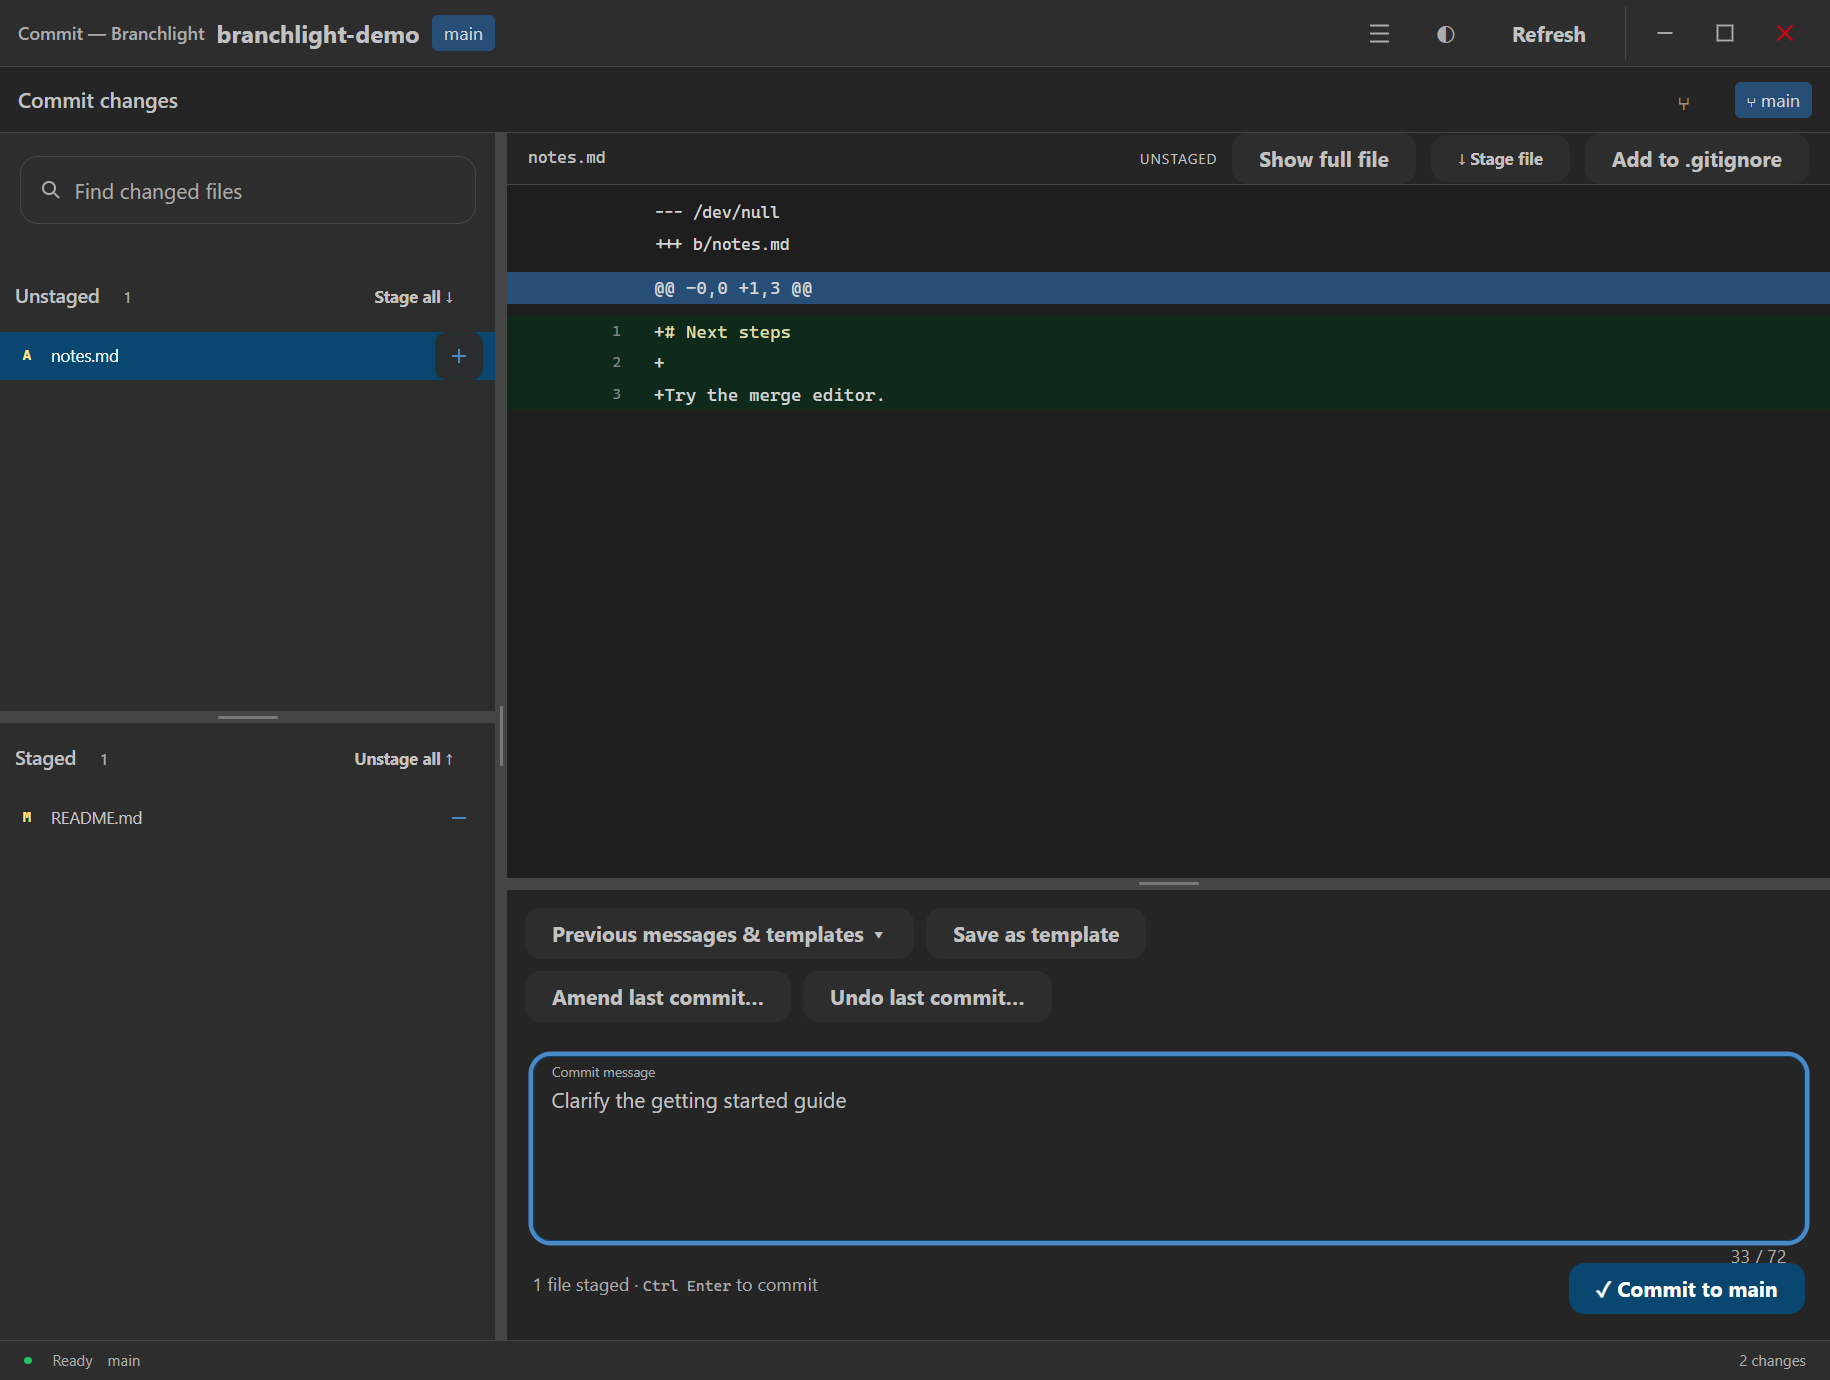
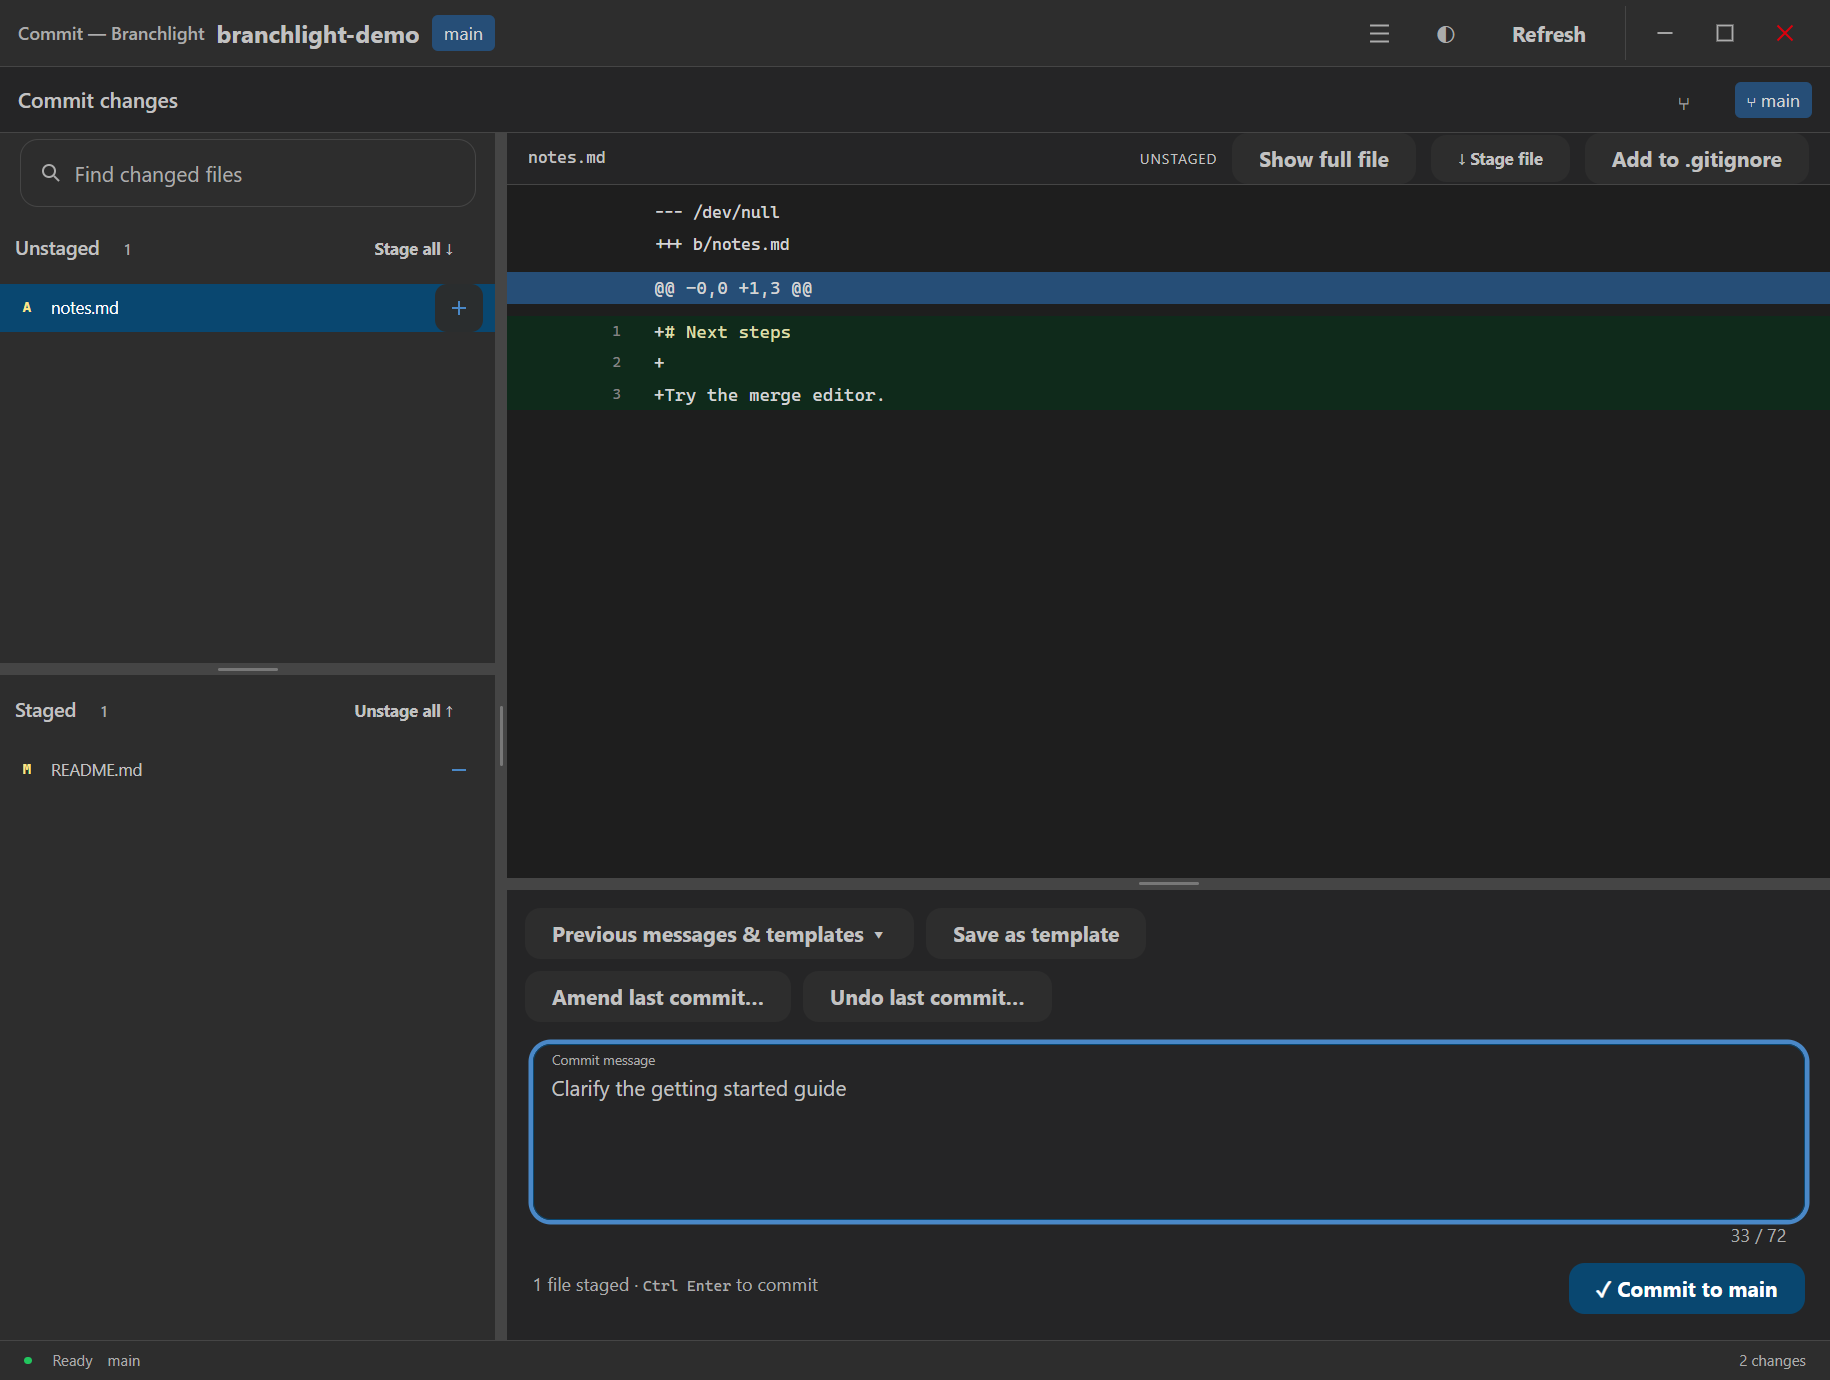
Remove stacked form spacing and stretch the commit editor

diff --git a/app/src/views/commit/commit.html b/app/src/views/commit/commit.html
@@ -19,7 +19,7 @@
 </div>
 <div class="commit-workspace flex min-h-0 flex-1 bg-card">
   <aside ref="stagingPane" class="staging-sidebar flex w-[330px] min-h-0 shrink-0 flex-col bg-card-muted">
-    <ui-form ref="fileSearchForm" class="block shrink-0 px-2">
+    <ui-form ref="fileSearchForm" class="search-form block shrink-0 px-2">
       <ui-input class="col-span-12" label="Find changed files" value.bind="fileQuery">
         <svg au-slot="leading" width="16" height="16" viewBox="0 0 24 24" fill="none" stroke="currentColor" stroke-width="2" aria-hidden="true">
           <circle cx="10" cy="10" r="6"></circle>
@@ -80,12 +80,12 @@
     <ui-splitter show.bind="!replaying" direction="vertical" target="next" size.bind="messageHeight" min.bind="180" max.bind="messageMax" storage-key="commit-message" aria-label="Resize diff and commit message"></ui-splitter>
     <section show.bind="!replaying" class="message-composer flex min-h-0 shrink-0 flex-col overflow-auto bg-card p-3">
       <message-picker class="shrink-0" message.bind="message" message-chosen.trigger="message = $event.detail"></message-picker>
-      <div class="mb-2 flex shrink-0 flex-wrap items-center gap-2">
+      <div class="flex shrink-0 flex-wrap items-center gap-2">
         <button ui-button click.trigger="toggleAmend()" disabled.bind="workspace.busy || !workspace.snapshot.head || !!workspace.snapshot.operation">${amendHead ? 'Cancel amend' : 'Amend last commit…'}</button>
         <button ui-button click.trigger="undoCommit()" disabled.bind="workspace.busy || !workspace.snapshot.head || !!workspace.snapshot.operation || !!amendHead">Undo last commit…</button>
       </div>
-      <ui-form class="block min-h-0 flex-1 [&>form]:h-full [&>form]:grid-rows-[1fr_auto]" submit.trigger:prevent="commit()">
-        <ui-input class="col-span-12 min-h-24" textarea id="commit-message" value.bind="message & validate" label="Commit message" rows="5" placeholder="Summary of changes" disabled.bind="workspace.busy">
+      <ui-form class="block min-h-0 flex-1 [&>form]:h-full [&>form]:pt-2 [&>form]:grid-rows-[minmax(0,1fr)_auto]" submit.trigger:prevent="commit()">
+        <ui-input class="col-span-12 min-h-24 self-stretch" textarea id="commit-message" value.bind="message & validate" label="Commit message" rows="5" placeholder="Summary of changes" disabled.bind="workspace.busy">
           <span au-slot="helper" class="flex flex-wrap justify-between gap-2">
             <span if.bind="amendHead">Amending ${amendHead.slice(0, 8)}. Staged changes will be included.</span>
             <span class="ml-auto ${summaryLength > 72 ? 'text-warning-text' : ''}" aria-label="Summary length">${summaryLength} / 72</span>

diff --git a/app/src/views/history/commit-files/commit-files.html b/app/src/views/history/commit-files/commit-files.html
@@ -2,7 +2,7 @@
   <import from="../../../attributes/code-selection"></import>
   <div class="w-[280px] min-w-0 shrink-0 overflow-auto">
     <div class="px-3 py-2 text-xs text-ink-500">Files at this commit · ${fileCount}</div>
-    <ui-form class="block min-w-0 px-2">
+    <ui-form class="search-form block min-w-0 px-2">
       <ui-input class="col-span-12 min-w-0" label="Find a file" value.bind="fileQuery">
         <svg au-slot="leading" width="16" height="16" viewBox="0 0 24 24" fill="none" stroke="currentColor" stroke-width="2" aria-hidden="true">
           <circle cx="10" cy="10" r="6"></circle>
@@ -23,13 +23,13 @@
   <ui-splitter direction="horizontal" size="280" min.bind="150" max.bind="650" storage-key="commit-files" aria-label="Resize commit file tree"></ui-splitter>
   <section class="flex min-h-0 min-w-0 flex-1 flex-col bg-canvas">
     <div class="min-h-8 shrink-0 truncate border-b border-card-border px-3 py-1 text-sm" title.bind="selectedPath">${selectedPath || 'File contents'}</div>
-    <ui-form if.bind="lines.length" class="block w-80 max-w-full shrink-0 px-3" submit.trigger:prevent="findInFile()">
+    <ui-form if.bind="lines.length" class="search-form block w-80 max-w-full shrink-0 px-3" submit.trigger:prevent="findInFile()">
       <ui-input class="col-span-10 min-w-0" label="Find in file" value.bind="contentQuery">
         <svg au-slot="leading" width="16" height="16" viewBox="0 0 24 24" fill="none" stroke="currentColor" stroke-width="2" aria-hidden="true">
           <circle cx="10" cy="10" r="6"></circle>
           <path d="m 15 15 5 5"></path>
         </svg>
-        <span au-slot="helper" if.bind="contentQuery">${contentMatches.length} matching lines</span>
+        <span au-slot="trailing" class="whitespace-nowrap text-xs" role="status" if.bind="contentQuery">${contentMatches.length} matches</span>
       </ui-input>
       <button ui-icon-button class="col-span-2" type="submit" title="Next matching line" aria-label="Next matching line" disabled.bind="!contentMatches.length">↓</button>
     </ui-form>

diff --git a/app/src/views/history/history.html b/app/src/views/history/history.html
@@ -33,13 +33,13 @@
           <span class="muted text-ink-500">/ All branches</span>
         </h2>
         <div class="spacer flex-1"></div>
-        <ui-form class="history-search block w-[330px] text-ink-500" submit.trigger:prevent="findNext()">
+        <ui-form class="history-search search-form block w-[330px] text-ink-500" submit.trigger:prevent="findNext()">
           <ui-input value.bind="query" placeholder="Find a commit, author or hash…" label="Search commits" class="search-field col-span-10">
             <svg au-slot="leading" width="16" height="16" viewBox="0 0 24 24" fill="none" stroke="currentColor" stroke-width="2" aria-hidden="true">
               <circle cx="10" cy="10" r="6"></circle>
               <path d="m 15 15 5 5"></path>
             </svg>
-            <span au-slot="helper" if.bind="query">${matchCount} matches</span>
+            <span au-slot="trailing" class="whitespace-nowrap text-xs" role="status" if.bind="query">${matchCount} matches</span>
           </ui-input>
           <button ui-icon-button class="col-span-2" type="submit" title="Next match">↵</button>
         </ui-form>

diff --git a/app/src/views/welcome/repository-dialog/repository-dialog.html b/app/src/views/welcome/repository-dialog/repository-dialog.html
@@ -1,5 +1,5 @@
 <template class="w-[560px] max-w-[90vw] max-h-[90vh] overflow-auto p-6">
-  <h2 class="mb-4 text-xl!">${mode === 'clone' ? 'Clone repository' : 'Create repository'}</h2>
+  <h2 class="text-xl!">${mode === 'clone' ? 'Clone repository' : 'Create repository'}</h2>
   <ui-form class="block" submit.trigger:prevent="create()">
     <ui-input class="col-span-12" if.bind="mode === 'clone'" label="Repository URL or local path" value.bind="url & validate" disabled.bind="working" required><span au-slot="helper">Authentication uses your configured Git credential helper or SSH agent.</span></ui-input>
     <ui-input class="col-span-9 min-w-0" label="Destination folder" value.bind="directory & validate" disabled.bind="working" required>

diff --git a/app/src/views/history/publish-dialog/publish-dialog.html b/app/src/views/history/publish-dialog/publish-dialog.html
@@ -1,6 +1,6 @@
 <template class="w-[480px] max-w-[90vw] p-6">
   <h2 class="mb-4 text-xl!">Publish branch</h2>
-  <p class="mb-4 text-sm text-ink-500">Push ${source} and configure its upstream for future pulls and pushes.</p>
+  <p class="text-sm text-ink-500">Push ${source} and configure its upstream for future pulls and pushes.</p>
   <ui-form class="block" submit.trigger:prevent="publish()">
     <ui-select class="col-span-12" label="Remote" items.bind="remotes" value.bind="remote & validate" value-field="name" label-field="name" disabled.bind="workspace.busy">
       <ui-list><ui-list-item repeat.for="remote of $host.items" value.bind="remote">${remote.name}</ui-list-item></ui-list>

diff --git a/app/src/elements/repository-sidebar/repository-sidebar.html b/app/src/elements/repository-sidebar/repository-sidebar.html
@@ -11,7 +11,7 @@
     Working directory
     <span class="count inline-block min-w-5 rounded bg-card-muted px-1.5 text-center text-[10px] leading-[18px] text-ink-500">${workspace.snapshot.files.length}</span>
   </button>
-  <ui-form class="branch-search block shrink-0">
+  <ui-form class="branch-search search-form block shrink-0">
     <ui-input value.bind="branchSearch" placeholder="Find a branch…" label="Find a branch" class="search-field col-span-12">
       <svg au-slot="leading" width="16" height="16" viewBox="0 0 24 24" fill="none" stroke="currentColor" stroke-width="2" aria-hidden="true">
         <circle cx="10" cy="10" r="6"></circle>

diff --git a/app/src/views/history/reflog-dialog/reflog-dialog.html b/app/src/views/history/reflog-dialog/reflog-dialog.html
@@ -1,7 +1,7 @@
 <template class="repository-tool-dialog flex w-[850px] max-w-[90vw] max-h-[90vh] min-w-0 flex-col gap-3 overflow-hidden p-5">
   <h2 class="text-xl!">Reflog recovery</h2>
   <p class="text-sm text-ink-500">Recent local reference movements, including commits removed by resets and rebases. Recover a commit onto a new branch. Expired reflog entries are unavailable.</p>
-  <ui-form class="block shrink-0">
+  <ui-form class="search-form block shrink-0">
     <ui-input class="col-span-12" label="Search reflog" value.bind="query"><span au-slot="leading">⌕</span></ui-input>
   </ui-form>
   <div class="min-h-0 flex-1 overflow-auto">

diff --git a/app/src/views/history/remote-dialog/remote-dialog.html b/app/src/views/history/remote-dialog/remote-dialog.html
@@ -1,5 +1,5 @@
 <template class="w-[600px] max-w-[90vw] max-h-[90vh] overflow-auto p-6">
-  <h2 class="mb-5 text-xl!">${editing ? 'Edit remote ' + name : 'Add remote'}</h2>
+  <h2 class="text-xl!">${editing ? 'Edit remote ' + name : 'Add remote'}</h2>
   <ui-form class="block" submit.trigger:prevent="save()">
     <ui-input class="col-span-12" label="Remote name" value.bind="name & validate" readonly.bind="editing" disabled.bind="workspace.busy" required></ui-input>
     <ui-input class="col-span-12" label="Remote URL" value.bind="url & validate" disabled.bind="workspace.busy" required></ui-input>

diff --git a/app/src/views/history/new-worktree-dialog/new-worktree-dialog.html b/app/src/views/history/new-worktree-dialog/new-worktree-dialog.html
@@ -1,5 +1,5 @@
 <template class="w-[540px] max-w-[90vw] max-h-[85vh] overflow-auto p-6">
-  <h2 class="mb-4 text-xl!">Create worktree</h2>
+  <h2 class="text-xl!">Create worktree</h2>
   <ui-form class="block" submit.trigger:prevent="create()">
     <ui-input class="col-span-12" label="New branch" value.bind="name & validate" required></ui-input>
     <ui-input class="col-span-12" label="Worktree folder" value.bind="directory & validate" required><span au-slot="helper">Use an absolute path for the new worktree.</span></ui-input>

diff --git a/app/src/views/history/new-branch-dialog/new-branch-dialog.html b/app/src/views/history/new-branch-dialog/new-branch-dialog.html
@@ -1,5 +1,5 @@
 <template class="branch-dialog w-[430px] max-w-[90vw] p-6">
-  <h2>Create branch</h2>
+  <h2 class="text-xl!">Create branch</h2>
   <ui-form class="block" submit.trigger:prevent="save()">
     <ui-input class="col-span-12" label="Branch name" value.bind="name & validate" placeholder="feature/my-change" required autofocus>
       <span au-slot="helper">Create and check out a branch from ${reference || 'the current commit'}.</span>

diff --git a/app/src/views/history/tags-dialog/tags-dialog.html b/app/src/views/history/tags-dialog/tags-dialog.html
@@ -1,6 +1,6 @@
 <template class="repository-tool-dialog flex w-[780px] max-w-[90vw] max-h-[90vh] min-w-0 flex-col gap-3 overflow-hidden p-5">
   <h2 class="text-xl!">Tags</h2>
-  <ui-form class="block shrink-0">
+  <ui-form class="search-form block shrink-0">
     <ui-input class="col-span-12" label="Search tags" value.bind="query"><span au-slot="leading">⌕</span></ui-input>
   </ui-form>
   <div class="min-h-0 max-h-60 overflow-auto">

diff --git a/app/src/styles/layout.css b/app/src/styles/layout.css
@@ -25,6 +25,19 @@ kbd {
   color: var(--color-ink-500);
 }
 
+/* Live filters have no validation row to reserve. Keep any supplied messages visible. */
+.search-form {
+  & > .ui-form {
+    padding-block: 4px;
+    column-gap: 8px;
+  }
+
+  & .ui-input__subscript {
+    min-height: 0;
+    margin-top: 0;
+  }
+}
+
 /* Shared file rows appear in both history and the commit window. */
 .file-item {
   & > span:last-child {
